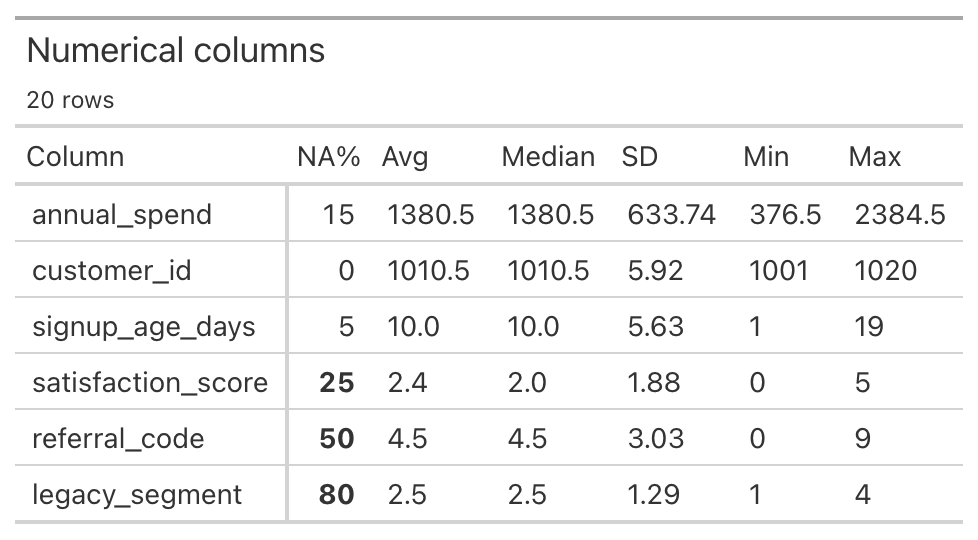
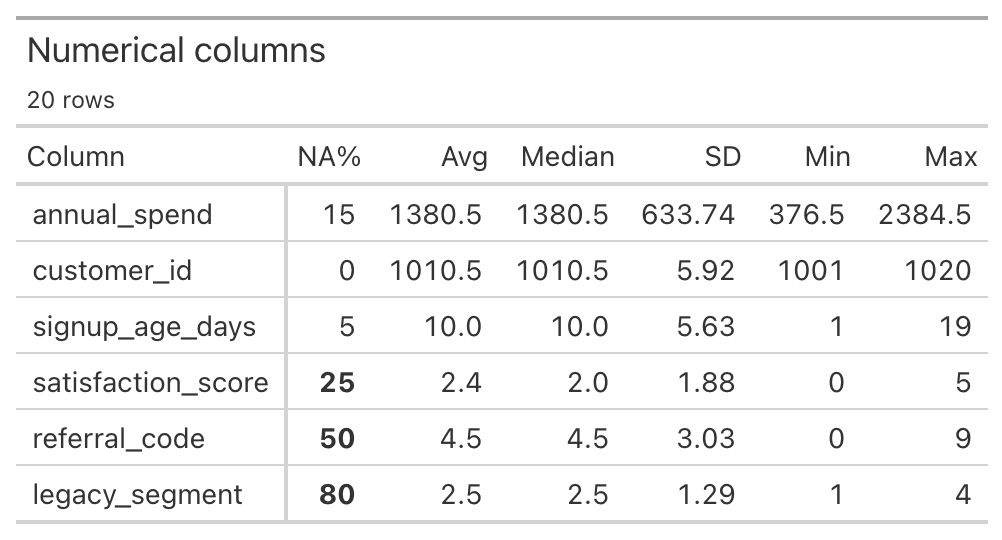
Right align numerical Great Tables output

diff --git a/tests/test_gt.py b/tests/test_gt.py
@@ -40,6 +40,8 @@ def test_gt_output_supports_input_backends(frame, capsys):
     assert "20 rows" in html
     assert '<td class="gt_row gt_right">20</td>' in html
     assert '<td style="font-weight: bold;" class="gt_row gt_right">25</td>' in html
+    assert '<td class="gt_row gt_right">9.5</td>' in html
+    assert 'gt_columns_bottom_border gt_right" rowspan="1"' in html
 
 
 def test_gt_output_returns_one_table_per_section(capsys):

diff --git a/src/showstats/_gt.py b/src/showstats/_gt.py
@@ -47,6 +47,8 @@ def make_gt_table(table: nw.DataFrame, table_type: str, num_rows: int):
             data_row_padding_horizontal="8px",
         )
     )
+    if table_type == "num":
+        result = result.cols_align(align="right", columns=table.columns[1:])
     if high_missing_rows:
         result = result.tab_style(
             style=style.text(weight="bold"),

diff --git a/changelog.md b/changelog.md
@@ -11,7 +11,7 @@ and this project adheres to [Semantic Versioning](https://semver.org/spec/v2.0.0
 
 - `show_stats(..., out="gt")` returns styled Great Tables output. Great Tables
   is available through the optional `gt` extra. `NA%` values of 25 percent or
-  more use bold text (#103).
+  more use bold text, and numerical statistics are right aligned (#103).
 - Lazy frames are accepted. `show_stats(df.lazy())` used to raise
   `TypeError: Cannot only use eager_only ... with polars.LazyFrame`; the
   schema is read once and used to build the summary plan. Scalar statistics
